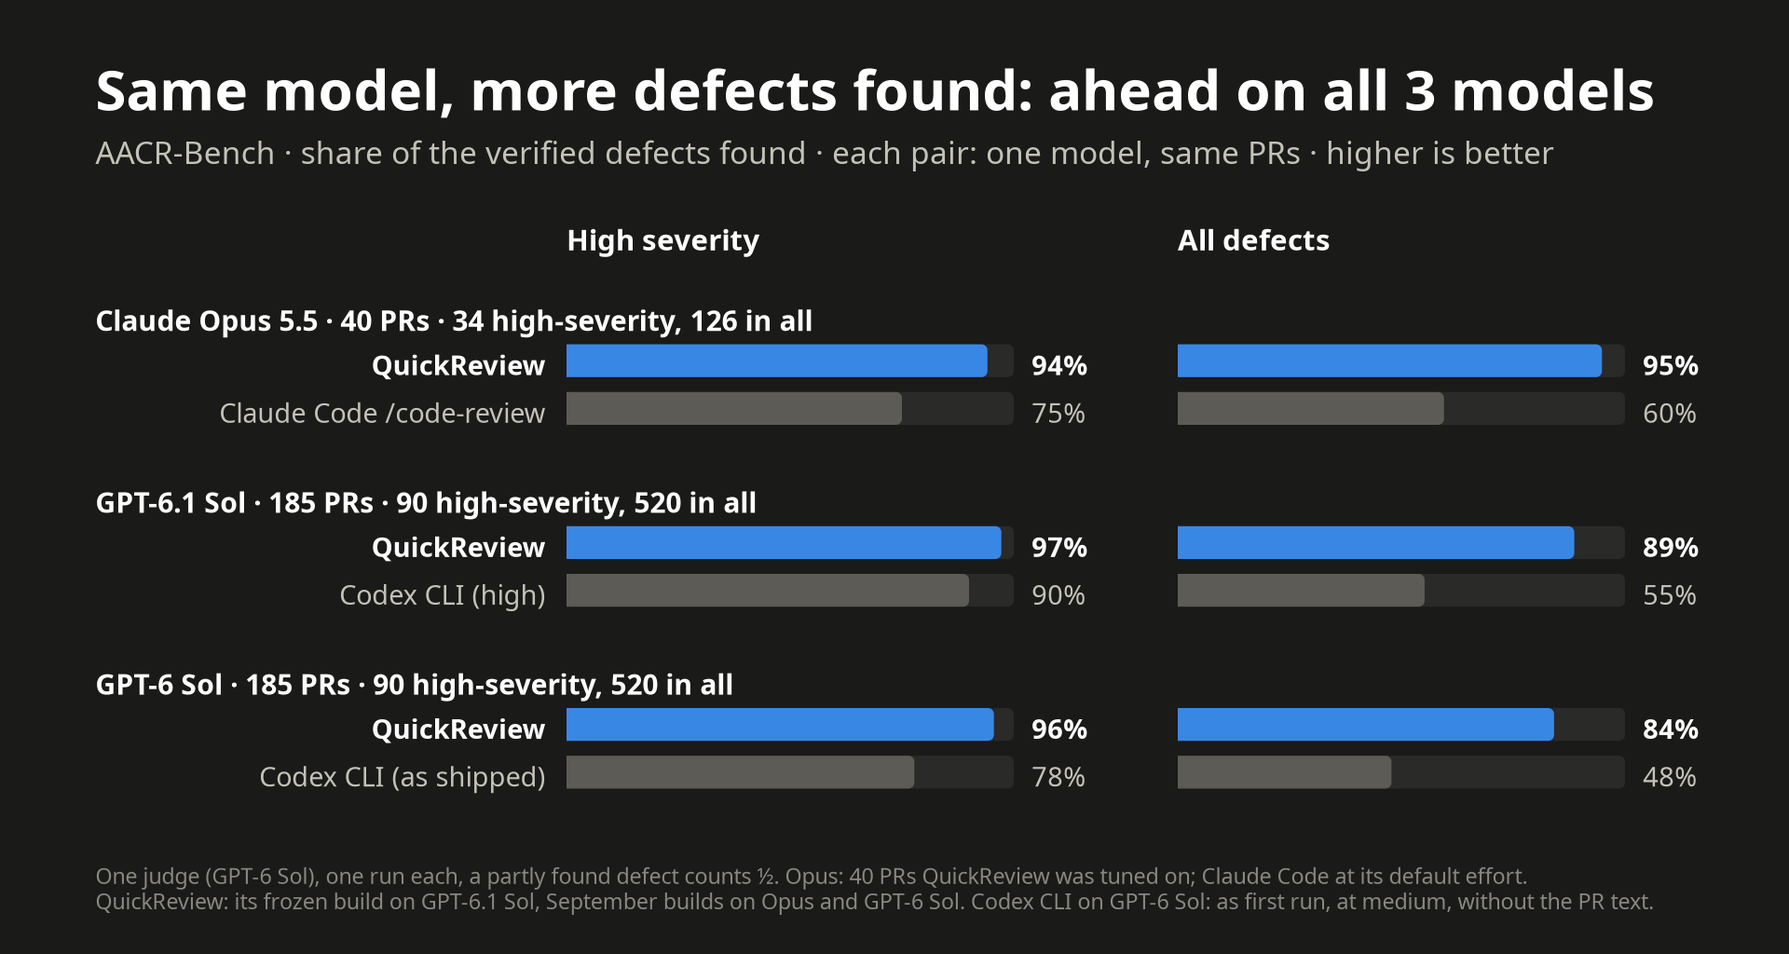
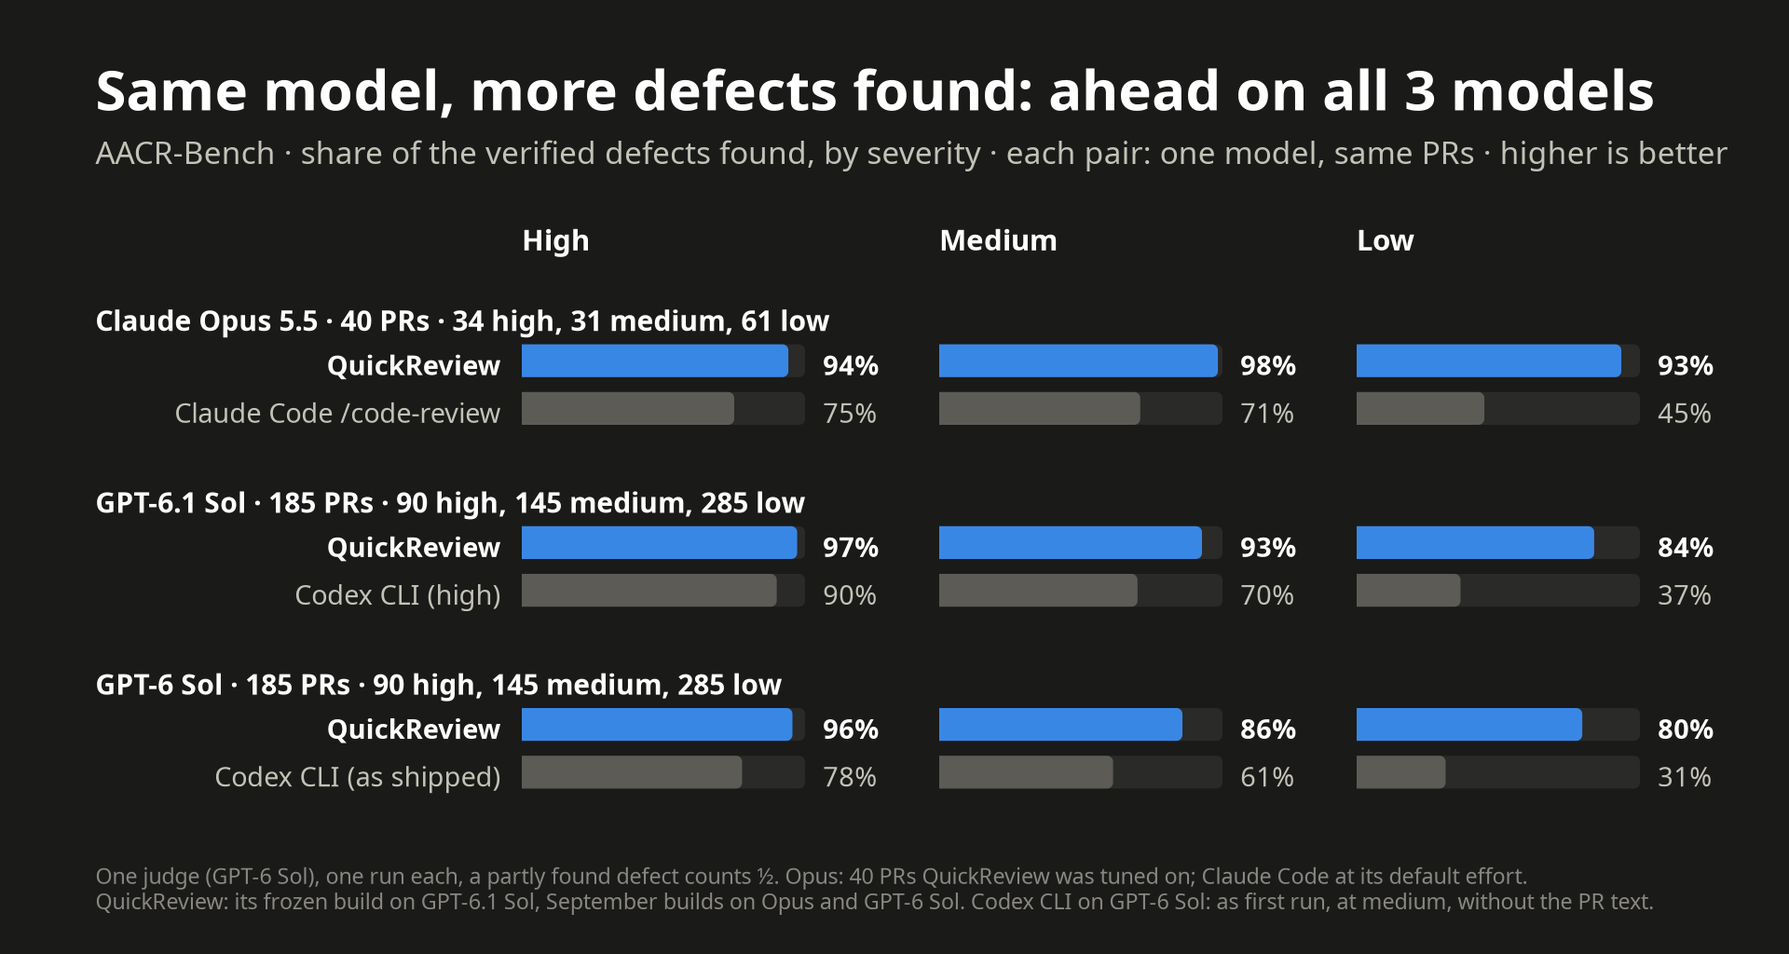
README benchmarks: severity always as the key's three grades, high, medium and low
The hero shows the share found at each severity (97%, 93% and 84%
against 90%, 82% and 52% for the best other reviewer at each), the
same-model chart has the same three columns, and both tables split
high, medium and low beside the total. The high-against-all chart and
the high + medium composites are gone, and the AACR paragraph states
what each grade means. The same-model medium and low counts come from
compare.py over the archived judge files; their totals match the
papers' tables.

diff --git a/bench/aacr/showcase/readme_charts.py b/bench/aacr/showcase/readme_charts.py
@@ -10,10 +10,11 @@
 The numbers are the papers' tables, copied here with the table each row comes from, so the
 README's charts and its prose read the same source: AACR-Bench is benchmark.tex Table
 tab:final (QuickReview's row: its frozen build, quickreview.tex Table tab:frozen), Martian is
-benchmark.tex Table tab:martianfinal, Qodo is benchmark.tex Table tab:qodo. The high + medium
-counts (bench-hero) are computed from the per-defect credits in data/aacr.json,
-the same runs as tab:final. Every title is computed from the rows. The look is v4's (theme_v4);
-the images carry no repo file names.
+benchmark.tex Table tab:martianfinal, Qodo is benchmark.tex Table tab:qodo. Severity is shown
+the same way everywhere: high, medium and low, the key's three grades. bench-hero's per-severity
+counts are computed from the per-defect credits in data/aacr.json, the same runs as tab:final.
+Every title is computed from the rows. The look is v4's (theme_v4); the images carry no repo
+file names.
 """
 import json
 import os
@@ -69,14 +70,16 @@ QODO = [  # (name, precision, recall)
 
 
 # The same base model in two reviewers, AACR-Bench, one judge (GPT-6 Sol at high) for both rows of a pair.
-SAME_MODEL = [  # (model, PRs, high defects, all defects, [(reviewer, high found, all found)])
-    # quickreview.tex Table tab:bm40 (QuickReview on Opus, the 40 T40 PRs it was tuned on, September build) and
-    # benchmark.tex Table tab:halves-sol (Claude Code on the same 40, its 185-PR runs cut to them).
-    ("Claude Opus 5.5", 40, 34, 126, [("QuickReview", 32, 119.5), ("Claude Code /code-review", 25.5, 75)]),
-    # benchmark.tex Table tab:final: the frozen build and Codex CLI at high.
-    ("GPT-6.1 Sol", 185, 90, 520, [("QuickReview", 87.5, 461), ("Codex CLI (high)", 81, 287)]),
-    # benchmark.tex Table tab:sol-summary: the original default run and Codex CLI as first run (medium, no PR text).
-    ("GPT-6 Sol", 185, 90, 520, [("QuickReview", 86, 437.5), ("Codex CLI (as shipped)", 70, 248.5)]),
+# Per severity, from bench/aacr/compare.py over the run archive (no model calls); the totals are the tables named.
+SAME_MODEL = [  # (model, PRs, (high, medium, low) defects, [(reviewer, high, medium, low found)])
+    # quickreview.tex Table tab:bm40 (QuickReview on Opus, the 40 T40 PRs it was tuned on, September build;
+    # runs opus-*) and benchmark.tex Table tab:halves-sol (Claude Code on the same 40: runs all-claude-*).
+    ("Claude Opus 5.5", 40, (34, 31, 61), [("QuickReview", 32, 30.5, 57), ("Claude Code /code-review", 25.5, 22, 27.5)]),
+    # benchmark.tex Table tab:final: the frozen build and Codex CLI at high (data/aacr.json).
+    ("GPT-6.1 Sol", 185, (90, 145, 285), [("QuickReview", 87.5, 134.5, 239), ("Codex CLI (high)", 81, 101.5, 104.5)]),
+    # benchmark.tex Table tab:sol-summary: the original default run and Codex CLI as first run (medium, no PR text);
+    # runs in bench/aacr/final/arms-gpt6sol.txt.
+    ("GPT-6 Sol", 185, (90, 145, 285), [("QuickReview", 86, 124.5, 227), ("Codex CLI (as shipped)", 70, 89, 89.5)]),
 ]
 
 # Pairwise Elo on Martian's hard20 (the 20 PRs QuickReview on GPT-6.1 Sol or DeepSeek V4.1 Flash did worst on
@@ -101,23 +104,20 @@ KEYS = {"quickreview": QR, "pi-review": "pi-review panel", "claude-code": "Claud
         "open-code-review": "open-code-review", "codex-cli": "Codex CLI", "opencode": "OpenCode", "pr-agent": "PR-Agent"}
 
 
-def serious():
-    """Per reviewer of AACR, from data/aacr.json's per-defect credits: high-severity found, high + medium found,
-    and the PRs with a high or medium defect where every one of them was found in full."""
+SEVERITIES = ("high", "medium", "low")
+
+
+def by_severity():
+    """Per reviewer of AACR, from data/aacr.json's per-defect credits: found at each severity, and how many
+    defects each severity has. A partly found defect counts ½."""
     with open(DATA) as f:
         d = json.load(f)
-    high = [x for x in d["defects"] if x["severity"] == "high"]
-    ser = [x for x in d["defects"] if x["severity"] in ("high", "medium")]
-    prs = {}
-    for x in ser:
-        prs.setdefault(x["pr"], []).append(x)
-    rows = {name: {"high": sum(x["credit"][k] for x in high),
-                   "found": sum(x["credit"][k] for x in ser),
-                   "clean": sum(all(x["credit"][k] == 1.0 for x in xs) for xs in prs.values())}
+    rows = {name: {s: sum(x["credit"][k] for x in d["defects"] if x["severity"] == s) for s in SEVERITIES}
             for k, name in KEYS.items()}
-    assert {n: (r["high"], sum(x["credit"][k] for x in d["defects"])) for k, n in KEYS.items() for r in [rows[n]]} \
-        == {r[0]: (r[1], r[2]) for r in AACR}, "data/aacr.json is not tab:final"
-    return rows, len(high), len(ser), len(prs), d["cases"]
+    sizes = {s: sum(1 for x in d["defects"] if x["severity"] == s) for s in SEVERITIES}
+    assert {n: (r["high"], sum(r.values())) for n, r in rows.items()} == {r[0]: (r[1], r[2]) for r in AACR}, \
+        "data/aacr.json is not tab:final"
+    return rows, sizes, d["cases"]
 
 
 def pct(v):
@@ -132,33 +132,6 @@ def place(rows, i):
     """QuickReview's place on column i, best first."""
     ours = next(r[i] for r in rows if r[0] == QR)
     return 1 + sum(1 for r in rows if r[0] != QR and r[i] > ours)
-
-
-def fig_aacr(T):
-    rows = sorted(AACR, key=lambda r: -r[2])
-    lead = place(rows, 1) == 1 and place(rows, 2) == 1
-    p = Page4(T, h=640)
-    p.title("Most real defects found, high-severity and overall" if lead else "Real defects found")
-    p.metric("AACR-Bench · 185 real PRs in 10 languages · share of the verified defects found · higher is better")
-    cols = [("High severity · 90 defects", 1, 90, 330), ("All · 520 defects", 2, 520, 770)]
-    top, bottom, width = 190, p.h - 96, 330
-    pitch = (bottom - top) / len(rows)
-    h = min(26, pitch * 0.62)
-    for head, _, _, x0 in cols:
-        p.text(x0, top - 22, head, size=14, weight="bold", va="baseline")
-    for k, r in enumerate(rows):
-        y = top + pitch * (k + 0.5)
-        ours = r[0] == QR
-        ink, wt = (T["ink"], "bold") if ours else (T["ink2"], "normal")
-        p.text(cols[0][3] - 14, y, r[0], ha="right", size=13.5, color=ink, weight=wt)
-        for _, i, n, x0 in cols:
-            share = r[i] / n
-            theme.bar(p.c, x0, x0 + width, y, h, T["empty"], zorder=2)
-            theme.bar(p.c, x0, x0 + width * share, y, h, T["qr"] if ours else T["other"], zorder=3)
-            p.text(x0 + width + 12, y, pct(100 * share), size=13.5, color=ink, weight=wt)
-    p.source("520 defects each verified in the code; one judge (GPT-6 Sol), one run per reviewer, a partly found "
-             "defect counts ½.\nQuickReview: its frozen build. " + OTHERS)
-    return p
 
 
 def scatter(T, rows, title, metric, source, xr, yr, xt, yt, xlabel, ylabel, x_of, y_of):
@@ -222,27 +195,21 @@ MARGIN = 2.0  # never headline a lead under 2 points
 
 
 def fig_hero(T):
-    """Three shares of the defects that matter, each over the field it was measured against."""
-    S, n_high, n_ser, n_prs, n_cases = serious()
-    panels = [  # (key, out of, big number, what it is)
-        ("high", n_high, None, f"of the {n_high} high-severity defects found"),
-        ("found", n_ser, None, f"of the {n_ser} high + medium defects found"),
-        ("clean", n_prs, f"{S[QR]['clean']} of {n_prs}", "PRs with all high + medium found in full"),
-    ]
-    lead = all(100 * (S[QR][k] - max(r[k] for n, r in S.items() if n != QR)) / n >= MARGIN for k, n, _, _ in panels)
+    """The share found at each of the key's three severities, each over the field it was measured against."""
+    S, sizes, n_cases = by_severity()
+    lead = all(100 * (S[QR][s] - max(r[s] for n, r in S.items() if n != QR)) / sizes[s] >= MARGIN for s in SEVERITIES)
     p = Page4(T, h=560)
     p.title(f"The highest-performing of {len(S)} AI reviewers tested" if lead else f"{len(S)} AI reviewers tested")
-    p.metric(f"AACR-Bench · {n_cases} real PRs · {n_ser} high- and medium-severity defects, each verified in the code · "
+    p.metric(f"AACR-Bench · {n_cases} real PRs · {sum(sizes.values())} defects each verified in the code, by severity · "
              "higher is better")
     col, top = 372, 296
-    for i, (k, vmax, big, what) in enumerate(panels):
-        x0 = 64 + col * i
-        fmt = (lambda v: f"{v:.0f}") if big else (lambda v, n=vmax: pct(100 * v / n))
-        rows = sorted(S.items(), key=lambda kv: -kv[1][k])
-        nxt = next((n, r) for n, r in rows if n != QR)
-        p.text(x0, 196, big or fmt(S[QR][k]), size=50, weight="bold", color=T["qr"], va="baseline")
-        p.text(x0, 232, what, size=13.5, va="baseline")
-        p.text(x0, 258, f"next best: {fmt(nxt[1][k])} ({nxt[0]})", size=12.5, color=T["ink2"], va="baseline")
+    for i, s in enumerate(SEVERITIES):
+        x0, n = 64 + col * i, sizes[s]
+        rows = sorted(S.items(), key=lambda kv: -kv[1][s])
+        nxt = next((name, r) for name, r in rows if name != QR)
+        p.text(x0, 196, pct(100 * S[QR][s] / n), size=50, weight="bold", color=T["qr"], va="baseline")
+        p.text(x0, 232, f"of {n} {s}-severity defects found", size=13.5, va="baseline")
+        p.text(x0, 258, f"next best: {pct(100 * nxt[1][s] / n)} ({nxt[0]})", size=12.5, color=T["ink2"], va="baseline")
         pitch = 26
         for j, (name, r) in enumerate(rows):
             y = top + pitch * (j + 0.5)
@@ -250,39 +217,38 @@ def fig_hero(T):
             ink, wt = (T["ink"], "bold") if ours else (T["ink2"], "normal")
             bx0, bx1 = x0 + 128, x0 + 250
             theme.bar(p.c, bx0, bx1, y, 14, T["empty"], zorder=2)
-            theme.bar(p.c, bx0, bx0 + (bx1 - bx0) * r[k] / vmax, y, 14, T["qr"] if ours else T["other"], zorder=3)
+            theme.bar(p.c, bx0, bx0 + (bx1 - bx0) * r[s] / n, y, 14, T["qr"] if ours else T["other"], zorder=3)
             p.text(bx0 - 10, y, "QuickReview" if ours else name, ha="right", size=12, color=ink, weight=wt)
-            p.text(bx1 + 8, y, fmt(r[k]), size=12, color=ink, weight=wt)
+            p.text(bx1 + 8, y, pct(100 * r[s] / n), size=12, color=ink, weight=wt)
     p.source(HERO_SOURCE)
     return p
 
 
 def fig_same_model(T):
-    """Each base model in QuickReview and in its maker's own reviewer, same PRs, same judge."""
-    lead = all(g[4][0][i] / n > g[4][1][i] / n + 0.02 for g in SAME_MODEL for i, n in ((1, g[2]), (2, g[3])))
+    """Each base model in QuickReview and in its maker's own reviewer, same PRs, same judge, by severity."""
+    lead = all(100 * (g[3][0][1 + i] - g[3][1][1 + i]) / g[2][i] >= MARGIN for g in SAME_MODEL for i in range(3))
     p = Page4(T, h=640)
     p.title(f"Same model, more defects found: ahead on all {len(SAME_MODEL)} models" if lead
             else "Same model, two reviewers")
-    p.metric("AACR-Bench · share of the verified defects found · each pair: one model, same PRs · higher is better")
-    cols = [("High severity", 1, 2, 380), ("All defects", 2, 3, 790)]
-    top, width = 190, 300
-    for head, _, _, x0 in cols:
-        p.text(x0, top - 22, head, size=14, weight="bold", va="baseline")
+    p.metric("AACR-Bench · share of the verified defects found, by severity · each pair: one model, same PRs · "
+             "higher is better")
+    xs, top, width = (350, 630, 910), 190, 190
+    for s, x0 in zip(SEVERITIES, xs):
+        p.text(x0, top - 22, s.capitalize(), size=14, weight="bold", va="baseline")
     y = top
-    for model, n_prs, n_high, n_all, pair in SAME_MODEL:
+    for model, n_prs, sizes, pair in SAME_MODEL:
         y += 22
-        p.text(64, y, f"{model} · {n_prs} PRs · {n_high} high-severity, {n_all} in all", size=13.5, weight="bold",
-               color=T["ink"])
+        p.text(64, y, f"{model} · {n_prs} PRs · {sizes[0]} high, {sizes[1]} medium, {sizes[2]} low", size=13.5,
+               weight="bold", color=T["ink"])
         y += 30
         for name, *found in pair:
             ours = name == "QuickReview"
             ink, wt = (T["ink"], "bold") if ours else (T["ink2"], "normal")
-            p.text(cols[0][3] - 14, y, name, ha="right", size=13, color=ink, weight=wt)
-            for (_, i, j, x0), n in zip(cols, (n_high, n_all)):
-                share = found[i - 1] / n
+            p.text(xs[0] - 14, y, name, ha="right", size=13, color=ink, weight=wt)
+            for x0, f, n in zip(xs, found, sizes):
                 theme.bar(p.c, x0, x0 + width, y, 22, T["empty"], zorder=2)
-                theme.bar(p.c, x0, x0 + width * share, y, 22, T["qr"] if ours else T["other"], zorder=3)
-                p.text(x0 + width + 12, y, pct(100 * share), size=13, color=ink, weight=wt)
+                theme.bar(p.c, x0, x0 + width * f / n, y, 22, T["qr"] if ours else T["other"], zorder=3)
+                p.text(x0 + width + 12, y, pct(100 * f / n), size=13, color=ink, weight=wt)
             y += 32
         y += 6
     p.source("One judge (GPT-6 Sol), one run each, a partly found defect counts ½. Opus: 40 PRs QuickReview was tuned on; "
@@ -321,8 +287,7 @@ def fig_elo(T):
     return p
 
 
-FIGURES = {"bench-hero": fig_hero, "bench-same-model": fig_same_model,
-           "bench-aacr": fig_aacr, "bench-martian": fig_martian, "bench-qodo": fig_qodo, "bench-elo": fig_elo}
+FIGURES = {"bench-hero": fig_hero, "bench-same-model": fig_same_model, "bench-martian": fig_martian, "bench-qodo": fig_qodo, "bench-elo": fig_elo}
 
 
 def main():

diff --git a/README.md b/README.md
@@ -20,21 +20,19 @@ re-derives every candidate from the code** before one review is posted.
 
 <picture>
   <source media="(prefers-color-scheme: dark)" srcset="docs/media/bench-hero-dark.png">
-  <img src="docs/media/bench-hero.png" alt="AACR-Bench, 185 real PRs, QuickReview on GPT-6.1 Sol against six other reviewers. High-severity defects found: QuickReview 97%, next best Codex CLI 90%. High- and medium-severity defects found, 235 in all: QuickReview 94%, next best pi-review panel 85%, lowest PR-Agent 53%. PRs with every high- and medium-severity defect found in full: QuickReview 109 of 122, next best pi-review panel 90.">
+  <img src="docs/media/bench-hero.png" alt="AACR-Bench, 185 real PRs, 520 verified defects, QuickReview on GPT-6.1 Sol against six other reviewers, share found at each severity. High (90 defects): QuickReview 97%, next best Codex CLI 90%. Medium (145): QuickReview 93%, next best pi-review panel 82%. Low (285): QuickReview 84%, next best pi-review panel 52%.">
 </picture>
 
 On 185 real PRs with 520 defects each verified in the code, QuickReview on
-GPT-6.1 Sol finds **97% of the high-severity defects** and **89% of all of
-them**. Of the 235 high- and medium-severity defects it finds **94%**, where
-the best of the six other reviewers we ran finds 85%, and on **109 of the 122
-PRs** that carry one it finds every one in full. On the same model
-it also finds more than the model maker's own reviewer: 97% and 89% against
-90% and 55% for Codex CLI on GPT-6.1 Sol, and 94% and 95% against 75% and 60%
-for Claude Code's `/code-review` on Claude Opus 5.5 (40 PRs it was tuned on).
-Its last changes were mined from its misses on 145 of the 185 PRs; on the 20
-kept out, it finds 83% of all defects and the next best 72%. That recall costs
-more: about $2 and 17.5 minutes per PR, where the other tools take
-$0.07–0.53 and 0.7–2.3 minutes ([Benchmarks](#benchmarks)).
+GPT-6.1 Sol finds **97% of the high-severity defects, 93% of the medium and
+84% of the low**; at each severity the best of the six other reviewers we ran
+finds 90%, 82% and 52%. On the same model it also finds more than the model
+maker's own reviewer at every severity: against Claude Code's `/code-review`
+on Claude Opus 5.5 and against Codex CLI on GPT-6.1 Sol. Its last changes were
+mined from its misses on 145 of the 185 PRs; on the 20 kept out, it finds 83%
+of all defects and the next best 72%. That recall costs more: about $2 and
+17.5 minutes per PR, where the other tools take $0.07–0.53 and 0.7–2.3
+minutes ([Benchmarks](#benchmarks)).
 
 <p align="center">
   <img src="docs/media/lenses.gif" width="800"
@@ -89,27 +87,21 @@ configuration we found for each (except Claude Code, which ran `/code-review`
 at its default effort and was not varied), the OpenAI-based ones on the same
 model, under the same judge on the same PRs.
 
-<picture>
-  <source media="(prefers-color-scheme: dark)" srcset="docs/media/bench-aacr-dark.png">
-  <img src="docs/media/bench-aacr.png" alt="AACR-Bench, 185 PRs, 520 verified defects. Share of high-severity defects found: QuickReview 97%, Codex CLI 90%, pi-review panel 89%, OpenCode 84%, Claude Code 81%, open-code-review 71%, PR-Agent 62%. Share of all defects found: QuickReview 89%, pi-review panel 67%, Claude Code 62%, open-code-review 57%, Codex CLI 55%, OpenCode 51%, PR-Agent 37%.">
-</picture>
-
 **AACR-Bench, verified defects.** AACR-Bench's own reference comments are
 mostly not real problems, so we built a key of 520 defects, each verified in
-the code, and a judge for it. Over the panel and Codex CLI the lead holds
-under a paired bootstrap on high and on high + medium defects (+8.3 points
-[+1.9, +14.6] on high over the panel). The price: 6.9 comments per PR, 42%
-of them true but minor.
-
-**What it misses.** Of the 235 high- and medium-severity defects,
-QuickReview misses 13, counting a partly found defect as half (10 missed
-outright, 6 found only in part). The next best, the pi-review panel, misses
-36. On the 20 PRs kept out of its last tuning round it misses 2 of 31, the
-panel 5.
+the code and graded by its consequence: **high** would block a merge (a
+user-visible bug on a normal path, a crash, data loss, a security hole, a
+broken build), **medium** should be fixed before merge, **low** is real but
+fine as a follow-up. The chart at the top is this key. QuickReview misses 2.5
+of the 90 high-severity defects, 10.5 of the 145 medium and 46 of the 285 low
+(a partly found defect counts as half); the best other reviewer at each
+severity misses 9, 26 and 136.5. Over the panel and Codex CLI the
+high-severity lead holds under a paired bootstrap (+8.3 points [+1.9, +14.6]
+over the panel). The price: 6.9 comments per PR, 42% of them true but minor.
 
 <picture>
   <source media="(prefers-color-scheme: dark)" srcset="docs/media/bench-same-model-dark.png">
-  <img src="docs/media/bench-same-model.png" alt="AACR-Bench, the same base model in two reviewers, one judge. Claude Opus 5.5, 40 PRs: QuickReview found 94% of the high-severity defects and 95% of all, Claude Code /code-review 75% and 60%. GPT-6.1 Sol, 185 PRs: QuickReview 97% and 89%, Codex CLI at high 90% and 55%. GPT-6 Sol, 185 PRs: QuickReview 96% and 84%, Codex CLI as shipped 78% and 48%.">
+  <img src="docs/media/bench-same-model.png" alt="AACR-Bench, the same base model in two reviewers, one judge, share found at high, medium and low severity. Claude Opus 5.5, 40 PRs: QuickReview 94%, 98%, 93%; Claude Code /code-review 75%, 71%, 45%. GPT-6.1 Sol, 185 PRs: QuickReview 97%, 93%, 84%; Codex CLI at high 90%, 70%, 37%. GPT-6 Sol, 185 PRs: QuickReview 96%, 86%, 80%; Codex CLI as shipped 78%, 61%, 31%.">
 </picture>
 
 **Same model, two reviewers.** With the model held fixed, QuickReview still
@@ -162,37 +154,37 @@ inside the intervals.
 it holds most of its recall on cheap open models, and it falls apart on a
 weak one:
 
-| QuickReview on | PRs | High found | All found | $/PR | Judge |
-|---|---|---|---|---|---|
-| GPT-6.1 Sol (frozen build) | 185 | 87.5 of 90 (97%) | 461 of 520 (89%) | 2.06 | gpt-6-sol |
-| DeepSeek V4.1 Flash (mostly low effort) | 185 | 83 of 90 (92%) | 451.5 of 520 (87%) | 0.74 | gpt-6.1-sol |
-| GLM-5.3 Flash | 185 | 83 of 90 (92%) | 435 of 520 (84%) | 0.52 | gpt-6.1-sol |
-| GPT-6 Luna | 185 | 39 of 90 (43%) | 147 of 520 (28%) | 0.04 | gpt-6-sol |
-| Claude Opus 5.5 | 40 | 32 of 34 (94%) | 119.5 of 126 (95%) | 3.24 | gpt-6-sol |
+| QuickReview on | PRs | High (90) | Medium (145) | Low (285) | All (520) | $/PR | Judge |
+|---|---|---|---|---|---|---|---|
+| GPT-6.1 Sol (frozen build) | 185 | 87.5 (97%) | 134.5 (93%) | 239 (84%) | 461 (89%) | 2.06 | gpt-6-sol |
+| DeepSeek V4.1 Flash (mostly low effort) | 185 | 83 (92%) | 131 (90%) | 237.5 (83%) | 451.5 (87%) | 0.74 | gpt-6.1-sol |
+| GLM-5.3 Flash | 185 | 83 (92%) | 120.5 (83%) | 231.5 (81%) | 435 (84%) | 0.52 | gpt-6.1-sol |
+| GPT-6 Luna | 185 | 39 (43%) | 44 (30%) | 64 (22%) | 147 (28%) | 0.04 | gpt-6-sol |
+| Claude Opus 5.5 | 40 | 32/34 (94%) | 30.5/31 (98%) | 57/61 (93%) | 119.5/126 (95%) | 3.24 | gpt-6-sol |
 
-The strongest third-party reviewers we ran find 81 of 90 high-severity
-defects (Codex CLI) and 347.5 of 520 in all (67%, the pi-review panel). The
+The best third-party reviewer at each severity finds 81 of 90 high (Codex
+CLI), 119 of 145 medium and 148.5 of 285 low (both the pi-review panel). The
 open-model rows ran a later build (mid-October, with cost changes made after
 the freeze) and a later judge; DeepSeek ran at low reasoning effort on 143 of
 its PRs, and GLM's review was missing a lens pass on 7. The GPT-6 Luna and
 Opus rows ran a September build; on the same 40 PRs as Opus, the frozen
-GPT-6.1 Sol build finds 33 of 34 and 105 of 126. Read the table as
-directional.
+GPT-6.1 Sol build finds 33 of 34 high, 28 of 31 medium and 44 of 61 low. Read
+the table as directional.
 
 <details>
 <summary>The full tables</summary>
 
 **AACR-Bench** (185 PRs, 10 languages, 520 verified defects; a partly found defect counts ½)
 
-| Reviewer | High (90) | High + medium (235) | All (520) | Comments correct | $/PR | Median min/PR |
-|---|---|---|---|---|---|---|
-| **QuickReview** | **87.5 (97%)** | **222 (94.5%)** | **461 (89%)** | 92% | 2.06 | 17.5 |
-| pi-review panel (high) | 80 (89%) | 199 (85%) | 347.5 (67%) | 89% | 0.27 | 1.8 |
-| Claude Code (Opus 5.5) | 72.5 (81%) | 177.5 (76%) | 324.5 (62%) | 81% | 0.20 | 0.7 |
-| open-code-review (high) | 63.5 (71%) | 165.5 (70%) | 298.5 (57%) | 86% | 0.53 | 1.8 |
-| Codex CLI (high) | 81 (90%) | 182.5 (78%) | 287 (55%) | 93% | 0.14 | 2.1 |
-| OpenCode (+ PR text) | 76 (84%) | 175 (74%) | 263.5 (51%) | 93% | 0.17 | 2.3 |
-| PR-Agent | 55.5 (62%) | 125.5 (53%) | 194 (37%) | 76% | 0.07 | 1.9 |
+| Reviewer | High (90) | Medium (145) | Low (285) | All (520) | Comments correct | $/PR | Median min/PR |
+|---|---|---|---|---|---|---|---|
+| **QuickReview** | **87.5 (97%)** | **134.5 (93%)** | **239 (84%)** | **461 (89%)** | 92% | 2.06 | 17.5 |
+| pi-review panel (high) | 80 (89%) | 119 (82%) | 148.5 (52%) | 347.5 (67%) | 89% | 0.27 | 1.8 |
+| Claude Code (Opus 5.5) | 72.5 (81%) | 105 (72%) | 147 (52%) | 324.5 (62%) | 81% | 0.20 | 0.7 |
+| open-code-review (high) | 63.5 (71%) | 102 (70%) | 133 (47%) | 298.5 (57%) | 86% | 0.53 | 1.8 |
+| Codex CLI (high) | 81 (90%) | 101.5 (70%) | 104.5 (37%) | 287 (55%) | 93% | 0.14 | 2.1 |
+| OpenCode (+ PR text) | 76 (84%) | 99 (68%) | 88.5 (31%) | 263.5 (51%) | 93% | 0.17 | 2.3 |
+| PR-Agent | 55.5 (62%) | 70 (48%) | 68.5 (24%) | 194 (37%) | 76% | 0.07 | 1.9 |
 
 **Martian** (50 PRs, Core; one `gpt-6.1-sol` judge for every row, the vendor rows re-judged from their published comments)
 
